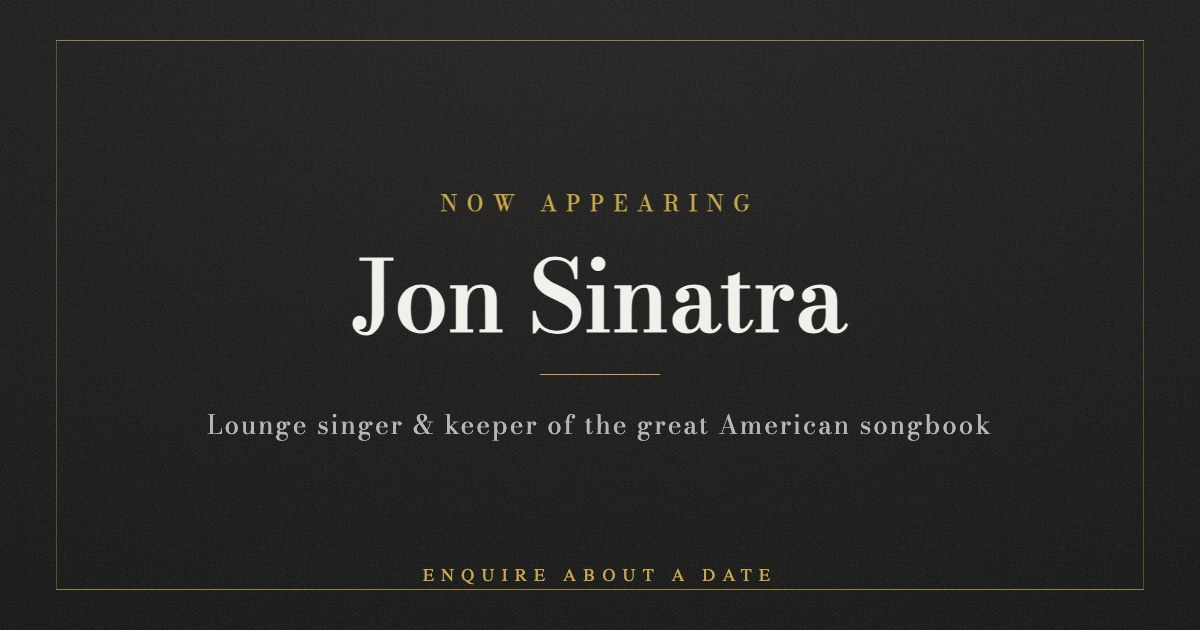
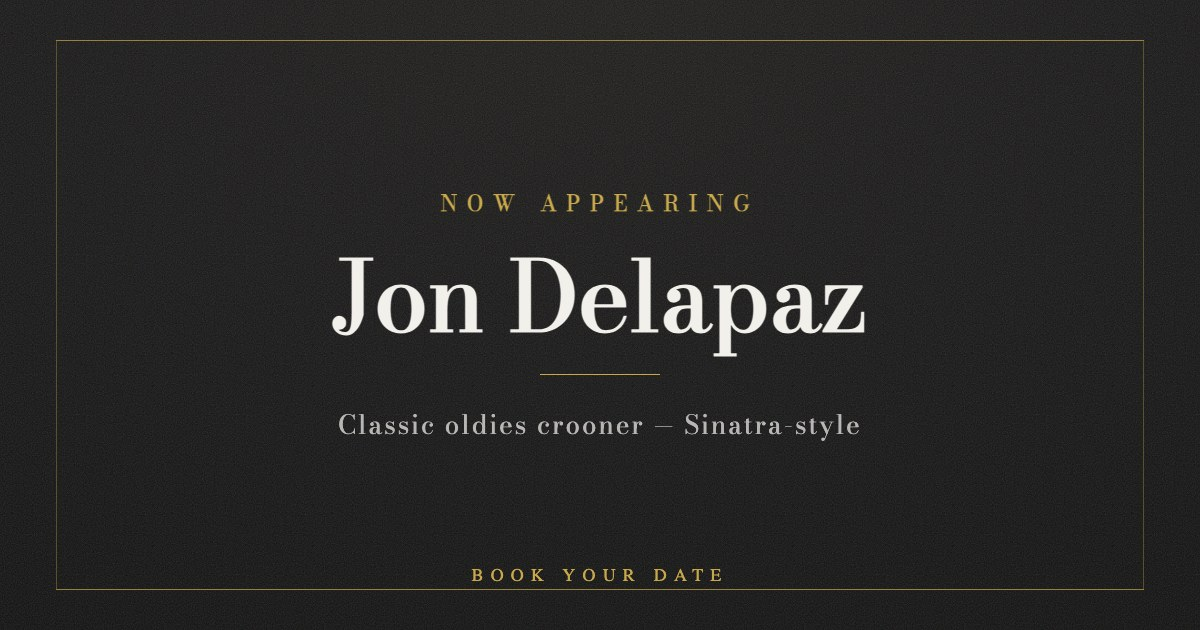
Make the site Jon's: real name/contact, no fake prices/band/testimonials, honest availability + copy aimed at weddings/bar mitzvahs/bars; clean:content script for the Astro glob-loader deletion cache; testimonial list-branch coverage

Changed region(s): [[0.2775, 0.3921, 0.74, 0.573], [0.185, 0.6635, 0.8325, 0.6937], [0.3392, 0.9048, 0.6475, 0.9349]]

diff --git a/src/data/profile.ts b/src/data/profile.ts
@@ -39,7 +39,7 @@ export interface Profile {
   marqueeSubtitle: string;
   /** Short third-person bio (F02). */
   bio: string;
-  /** "In his own words" pull quote (F02). */
+  /** Pull quote — the site's voice, not a client testimonial (F02). */
   quote: string;
   portraitAlt: string;
   portraitLabel: string;
@@ -54,16 +54,16 @@ export interface Profile {
 }
 
 export const profile: Profile = {
-  name: 'Jon Sinatra',
-  tagline: 'Lounge singer & keeper of the great American songbook',
-  marqueeSubtitle: 'Now appearing — lounge & supper club',
-  bio: 'Jon Sinatra channels the intimacy of the Rat Pack era with a voice cut for cedar-panelled rooms, low lights, and a single spotlight. He performs classic standards, swinging mid-tempo numbers, and late-night ballads — arranged for small combo or small orchestra. Available for supper clubs, private galas, corporate gatherings, and intimate in-house concerts.',
-  quote: 'The best sets are the ones where you can hear a pin drop between the notes.',
-  portraitAlt: 'Jon Sinatra in a tuxedo, microphone at waist',
-  portraitLabel: 'Portrait — Jon Sinatra',
+  name: 'Jon Delapaz',
+  tagline: 'Classic oldies crooner — Sinatra-style',
+  marqueeSubtitle: 'Now appearing — weddings, bar mitzvahs & late-night bars',
+  bio: 'Jon Delapaz sings the classic oldies — the songs of Sinatra, Martin, Bennett, and the songbook that made them timeless. From a quiet first-dance ballad to a swing number the whole room knows by heart, his voice suits weddings, bar mitzvahs, engagement parties, and long nights in bars and clubs. Available solo for the evening, or with a band hired to fit the room.',
+  quote: "The classic songs aren't old — they're waiting for the right room.",
+  portraitAlt: 'Jon Delapaz — classic oldies crooner',
+  portraitLabel: 'Portrait — Jon Delapaz',
   facts: [
-    { dt: 'Range', dd: 'Baritone, two octaves' },
-    { dt: 'Venue', dd: 'Supper clubs, galas, in-house concerts' },
+    { dt: 'Range', dd: 'Baritone' },
+    { dt: 'Venue', dd: 'Weddings, bar mitzvahs, bars & clubs' },
     { dt: 'Bookings', dd: 'Open — tell me your date' },
   ],
   packages: [
@@ -72,49 +72,39 @@ export const profile: Profile = {
       eyebrow: 'Cocktail Hour',
       title: 'Intimate lounge set',
       blurb:
-        'A 45-minute trio set of standards — perfect for arrivals, cocktails, or a quiet corner table.',
-      stubValue: '$1,200',
+        'A 45-minute set of classic oldies and standards — perfect for arrivals, cocktails, or a quiet corner table.',
+      stubValue: 'Enquire',
       status: 'On request',
       ctaHref: '#booking?package=cocktail',
     },
     {
       id: 'standard',
       eyebrow: 'The Standard',
-      title: 'Full two-hour show',
+      title: 'The full evening',
       blurb:
-        'A full programme of swing, bossa nova and ballads, with interval — the signature evening.',
-      stubValue: '$3,200',
+        'Two sets with an interval — first-dance ballads, swing numbers, and everything in between. The signature evening.',
+      stubValue: 'Enquire',
       status: 'Most requested',
       ctaHref: '#booking?package=standard',
     },
     {
       id: 'gala',
       eyebrow: 'Gala',
-      title: 'Orchestra night',
+      title: 'Ceremony & celebration',
       blurb:
-        'A twelve-piece set list for larger rooms and headliner billing, including a signature closing number.',
-      stubValue: '$ — on request',
+        'A tailored programme for weddings and bar mitzvahs — the ceremony song, the first dance, and a reception set the room will sing along to.',
+      stubValue: 'Enquire',
       status: 'On request',
       ctaHref: '#booking?package=gala',
     },
   ],
   gallery: [
-    { alt: 'Jon Sinatra at the mic, low-lit', label: 'On stage' },
-    { alt: 'Trio in a supper club, warm lamplight', label: 'Supper club' },
-    { alt: 'Headshot, black and white, tuxedo', label: 'Headshot' },
-    { alt: 'Piano and upright bass, late night', label: 'The rhythm section' },
+    { alt: 'Audio sample — coming soon', label: 'Audio' },
+    { alt: 'Video sample — coming soon', label: 'Video' },
+    { alt: 'Stage photos — coming soon', label: 'Photos' },
+    { alt: 'Live set — coming soon', label: 'Live' },
   ],
-  blockedDates: [
-    '2026-09-12',
-    '2026-09-26',
-    '2026-10-03',
-    '2026-10-17',
-    '2026-11-07',
-    '2026-11-21',
-  ],
-  contact: { email: 'bookings@example.com', phone: '+1 (212) 555 0199' },
-  socials: [
-    { label: 'Instagram', href: 'https://instagram.com/example' },
-    { label: 'YouTube', href: 'https://youtube.com/example' },
-  ],
+  blockedDates: [],
+  contact: { email: 'jonathan10620@gmail.com', phone: '+1 (830) 237-3964' },
+  socials: [],
 };

diff --git a/tests/unit/index.test.ts b/tests/unit/index.test.ts
@@ -45,15 +45,15 @@ describe('index page (single-page profile)', () => {
 
     // F01 — marquee headline + primary booking CTA.
     expect(html).toContain('id="marquee"');
-    expect(html).toContain('>Jon Sinatra<');
+    expect(html).toContain('>Jon Delapaz<');
     expect(html).toContain('href="#booking?package=standard"');
 
     // F02 — voice fact strip + quote.
     expect(html).toContain('id="voice"');
     expect(html).toContain('Range');
-    expect(html).toContain('Baritone, two octaves');
+    expect(html).toContain('Baritone');
     expect(html).toContain('Open — tell me your date');
-    expect(html).toContain('The best sets are the ones where you can hear a pin drop');
+    expect(html).toContain('waiting for the right room');
 
     // F03 — repertory driven from the collection.
     expect(html).toContain('id="repertoire"');
@@ -68,9 +68,9 @@ describe('index page (single-page profile)', () => {
     // F05 — gallery frames.
     expect(html).toContain('id="stage"');
 
-    // F06 — testimonial collection.
+    // F06 — testimonial collection (empty until real quotes land).
     expect(html).toContain('id="word"');
-    expect(html).toContain('The room went silent the moment he opened his mouth');
+    expect(html).toContain('No quotes yet');
 
     // F07 — calendar island mounted on its shell (internals covered by
     // calendar-widget.test.tsx via jsdom; container emits the island wrapper).
@@ -103,7 +103,7 @@ describe('index page (single-page profile)', () => {
     // Open Graph + Twitter cards, with an absolute OG image.
     expect(html).toContain('<meta property="og:type" content="website">');
     expect(html).toContain(
-      '<meta property="og:title" content="Jon Sinatra — Lounge Singer &#38; Performer">',
+      '<meta property="og:title" content="Jon Delapaz — Classic Oldies Crooner">',
     );
     expect(html).toContain(
       '<meta property="og:image" content="https://jonsinatra.example/og.jpg">',
@@ -114,10 +114,10 @@ describe('index page (single-page profile)', () => {
     );
 
     // SEO essentials.
-    expect(html).toContain('<title>Jon Sinatra — Lounge Singer &amp; Performer</title>');
+    expect(html).toContain('<title>Jon Delapaz — Classic Oldies Crooner</title>');
     expect(html).toContain('<meta name="viewport" content="width=device-width, initial-scale=1">');
     expect(html).toContain(
-      '<meta name="description" content="Lounge singer &#38; keeper of the great American songbook">',
+      '<meta name="description" content="Classic oldies crooner — Sinatra-style">',
     );
     expect(html).toContain('<link rel="icon" type="image/svg+xml" href="/favicon.svg">');
   });

diff --git a/tests/unit/testimonials.test.ts b/tests/unit/testimonials.test.ts
@@ -3,23 +3,46 @@
  * state shows when the collection is empty.
  */
 import { experimental_AstroContainer as AstroContainer } from 'astro/container';
-import { afterEach, describe, expect, it, vi } from 'vitest';
+import { beforeEach, describe, expect, it, vi } from 'vitest';
 
 vi.mock('astro:content', () => ({
-  getCollection: vi.fn(async () => []),
+  getCollection: vi.fn(),
 }));
 
+import { getCollection } from 'astro:content';
 import Testimonials from '../../src/components/sections/Testimonials.astro';
 
-afterEach(() => {
-  vi.clearAllMocks();
+beforeEach(() => {
+  vi.mocked(getCollection).mockReset();
 });
 
 describe('Testimonials (F06)', () => {
   it('renders the designed empty state when the collection is empty', async () => {
+    vi.mocked(getCollection).mockResolvedValue([]);
     const container = await AstroContainer.create();
     const html = await container.renderToString(Testimonials);
     expect(html).toContain('id="word"');
-    expect(html).toContain('No quotes yet — the mic is listening.');
+    expect(html).toContain('No quotes yet');
+  });
+
+  it('renders every quote verbatim with attribution when the collection has entries', async () => {
+    vi.mocked(getCollection).mockResolvedValue([
+      {
+        id: 'lake-house',
+        collection: 'testimonials',
+        data: {
+          quote: 'A real client said this after the last note.',
+          name: 'J. Alvarez',
+          venue: 'The Rosedale',
+          eventType: 'Wedding',
+        },
+      },
+    ] as never);
+    const container = await AstroContainer.create();
+    const html = await container.renderToString(Testimonials);
+    expect(html).toContain('A real client said this after the last note.');
+    expect(html).toContain('J. Alvarez');
+    expect(html).toContain('The Rosedale');
+    expect(html).toContain('Wedding');
   });
 });

diff --git a/src/app.test.ts b/src/app.test.ts
@@ -6,10 +6,10 @@ const builtIndex = new URL('../dist/index.html', import.meta.url);
 describe('home page (static build output)', () => {
   it('renders the site name, title, and marquee booking CTA from the built index', async () => {
     const html = await readFile(builtIndex, 'utf8');
-    expect(html).toMatch(/<title>[^<]*Jon Sinatra[^<]*<\/title>/);
-    expect(html).toMatch(/<h1[^>]*>\s*Jon Sinatra\s*<\/h1>/);
+    expect(html).toMatch(/<title>[^<]*Jon Delapaz[^<]*<\/title>/);
+    expect(html).toMatch(/<h1[^>]*>\s*Jon Delapaz\s*<\/h1>/);
     // LG2 surfaces present in the static build.
-    expect(html).toContain('Lounge Singer');
+    expect(html).toContain('Classic Oldies Crooner');
     expect(html).toContain('id="marquee"');
     expect(html).toContain('id="booking"');
     expect(html).toContain('href="#booking?package=standard"');

diff --git a/tests/e2e/site.spec.ts b/tests/e2e/site.spec.ts
@@ -8,7 +8,7 @@ test.describe('LG2 static profile (no JS)', () => {
 
   test('renders every section with real content in DOM order', async ({ page }) => {
     await page.goto('/');
-    expect(await page.title()).toMatch(/Jon Sinatra/);
+    expect(await page.title()).toMatch(/Jon Delapaz/);
 
     const ids = [
       'marquee',
@@ -52,9 +52,9 @@ test.describe('LG2 static profile (no JS)', () => {
     await expect(page.getByText('Fly Me to the Moon')).toBeVisible();
   });
 
-  test('testimonials render verbatim from the collection', async ({ page }) => {
+  test('testimonials render honestly (empty state until real quotes land)', async ({ page }) => {
     await page.goto('/');
-    await expect(page.getByText(/The room went silent/)).toBeVisible();
+    await expect(page.getByText(/No quotes yet/)).toBeVisible();
   });
 });
 

diff --git a/tests/e2e/smoke.spec.ts b/tests/e2e/smoke.spec.ts
@@ -3,6 +3,6 @@ import { expect, test } from '@playwright/test';
 test('placeholder home page renders and responds 200', async ({ page }) => {
   const response = await page.goto('/');
   expect(response?.status()).toBe(200);
-  await expect(page).toHaveTitle(/Jon Sinatra/);
-  await expect(page.getByRole('heading', { level: 1 })).toHaveText('Jon Sinatra');
+  await expect(page).toHaveTitle(/Jon Delapaz/);
+  await expect(page.getByRole('heading', { level: 1 })).toHaveText('Jon Delapaz');
 });

diff --git a/tests/e2e/ship.spec.ts b/tests/e2e/ship.spec.ts
@@ -33,7 +33,7 @@ test.describe('I01 ship metadata', () => {
     );
     await expect(page.locator('meta[name="description"]')).toHaveAttribute(
       'content',
-      /keeper of the great American songbook/,
+      /Classic oldies crooner/,
     );
   });
 
